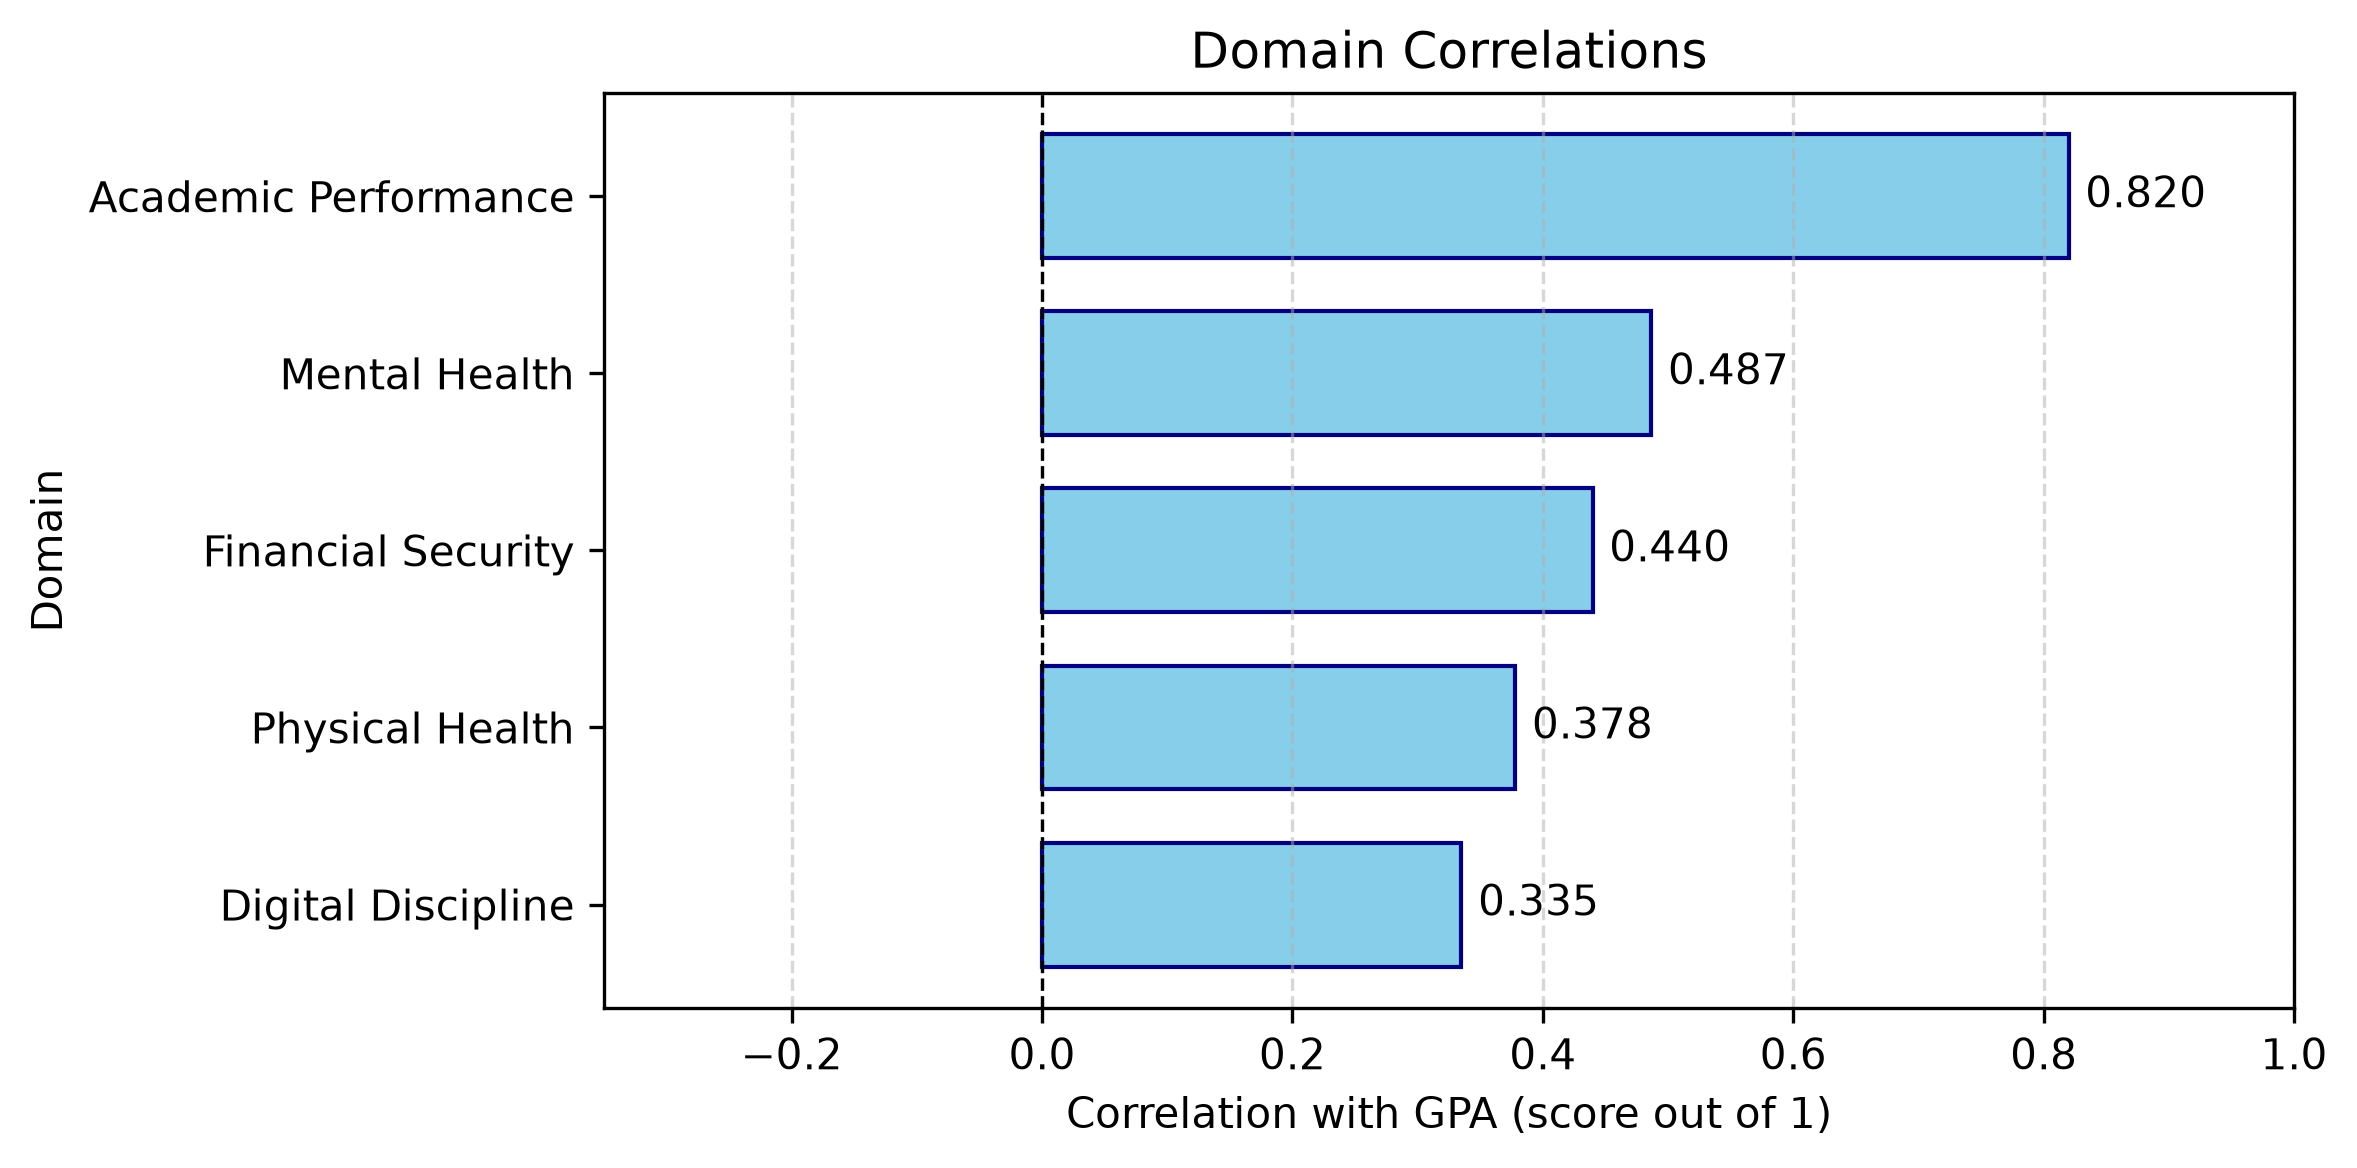
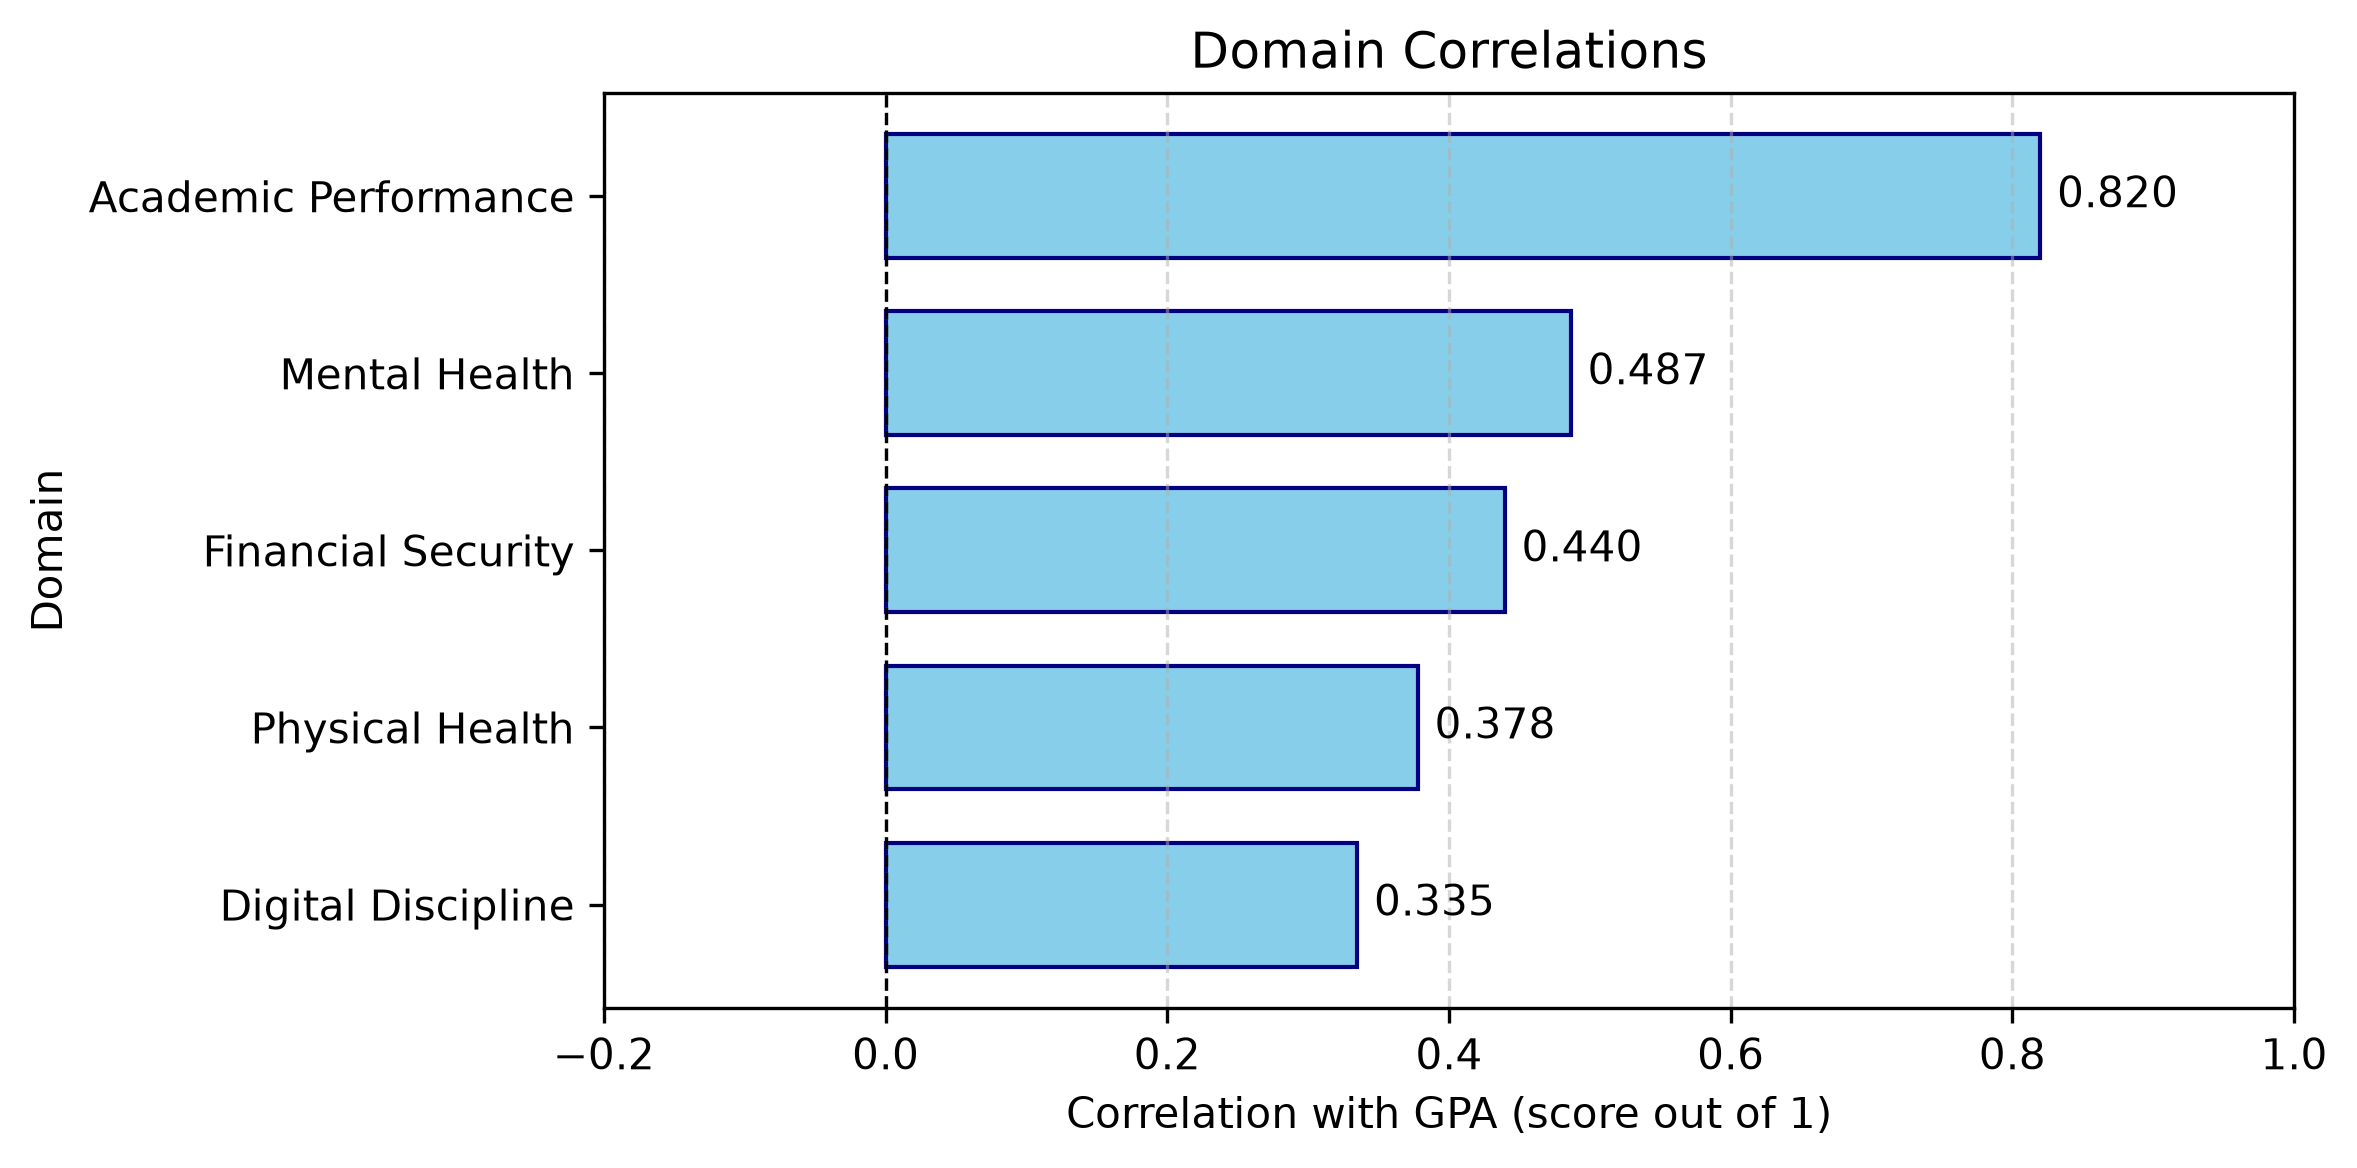
Updated the bar graph, and added detail to the readme page.

diff --git a/src/plots.py b/src/plots.py
@@ -34,7 +34,7 @@ def plot_correlations(output_path):
     ]
 
     ax.set_yticklabels(formatted_labels)    
-    ax.set_xlim(-0.35, 1.0)
+    ax.set_xlim(-0.2, 1.0)
 
     ax.set_title("Domain Correlations")
     ax.set_xlabel("Correlation with GPA (score out of 1)")

diff --git a/README.md b/README.md
@@ -7,7 +7,11 @@ This project performs a statistical analysis on a CSV file from Kaggle that cont
 
 This program begins by calculating z-scores for students in the following domains: mental health, digital discipline, financial security, physical health, and academic performance. It then uses those z-scores to calculate the correlation (from 0 to 1) that each domain has with the students GPA, and these correlations are plotted in a chart. (Note: for the purposes of this project, GPA is a score out of 2)
 
-This program also produces a scatter plot that compares mental health scores (from 0 to 10) with GPA scores (from 0 to 2).
+This program also produces a scatter plot that compares mental health scores (from 0 to 10) with GPA scores (from 0 to 2). Because producing a scatter plot with 1,000,000 points would be visually problematic, a random sample of 2,500 students is used.
+
+### Dataset
+https://www.kaggle.com/datasets/sharmajicoder/college-students-habits-and-performance/data
+
 
 ### Domain Descriptions
 - Mental Health: stress, anxiety, depression, motivation, concentration, self discipline
@@ -26,6 +30,13 @@ This program also produces a scatter plot that compares mental health scores (fr
 ![Domain Correlation](outputs/figures/correlations_chart.png)
 ![Mental Health vs. Gpa](outputs/figures/stress_gpa_scatter_plot.png)
 
+### Interpretation of results
+We can see that among the various domains, academic performance was the domain with the highest correlation with GPA (0.820). This makes sense because the academic performance domain contains the following categories: attendance, assignment completion, midterm score, final score, project score, online courses completed, peer study group, class participation, weekly study sessions, group study hours, study hours. The domain that has the least correlation with GPA is the domain digital discipline, or how well the student controls their recreational screen time (0.335). While this is the lowest correlation out of those that we measured, it is still indeed a correlation, and it should be recognized that a college student's control over their screen time does indeed affect to a certain extent their GPA. 
+
+From the scatter plot, we can see that there is a negative relationship between stress and GPA. Thus the more stressed out that you are, the lower your GPA is projected to be. However, the line of best fit on this chart has a slope of -0.01, which is very slight. 
+
+### Potential Limitations and Biases
+While this data set was extremely large (1,000,000 rows), it is a fully synthetic data set. However, it is statically structured so that it can resemble realistic academic environments. 
 
 ## Getting Started
 
